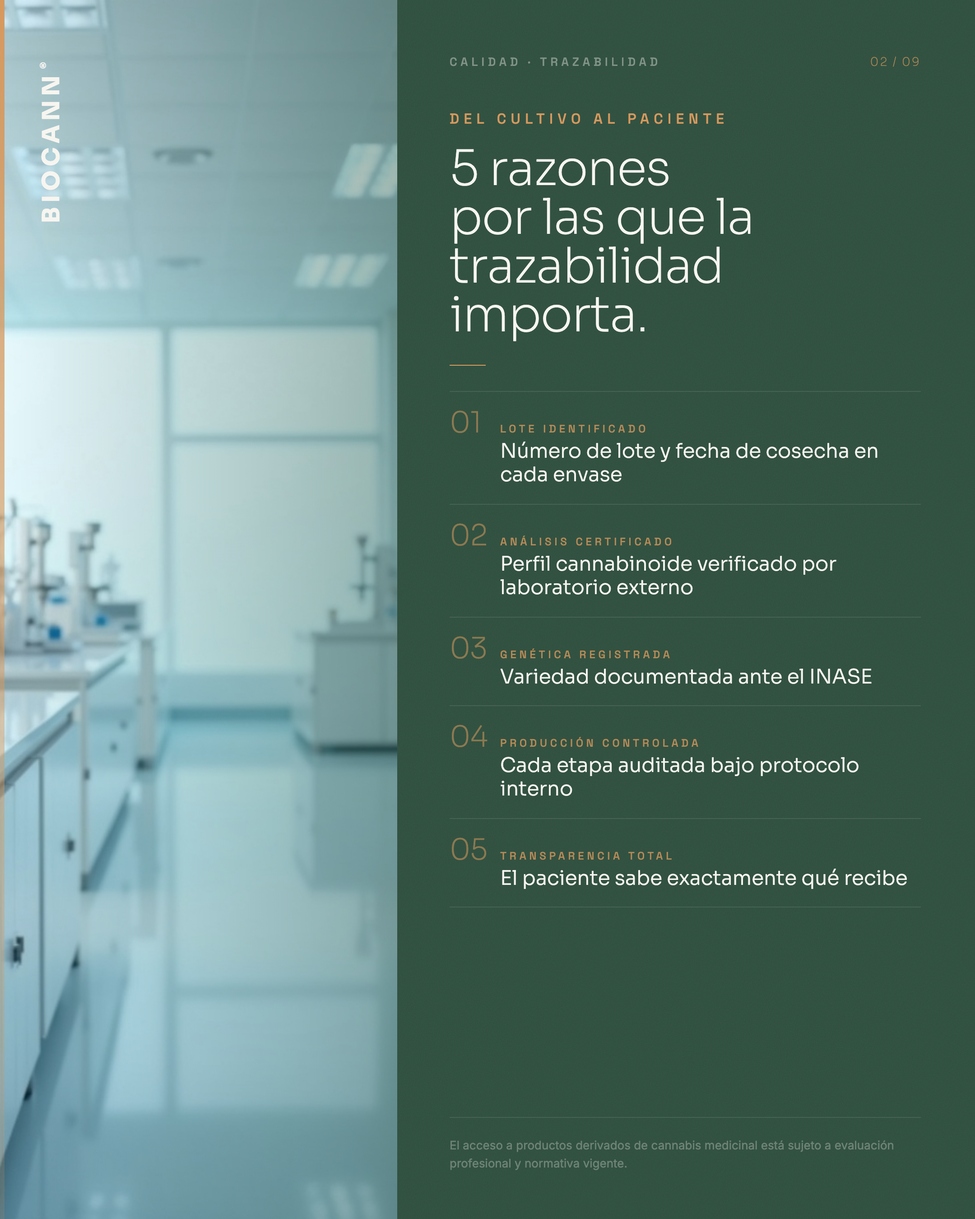
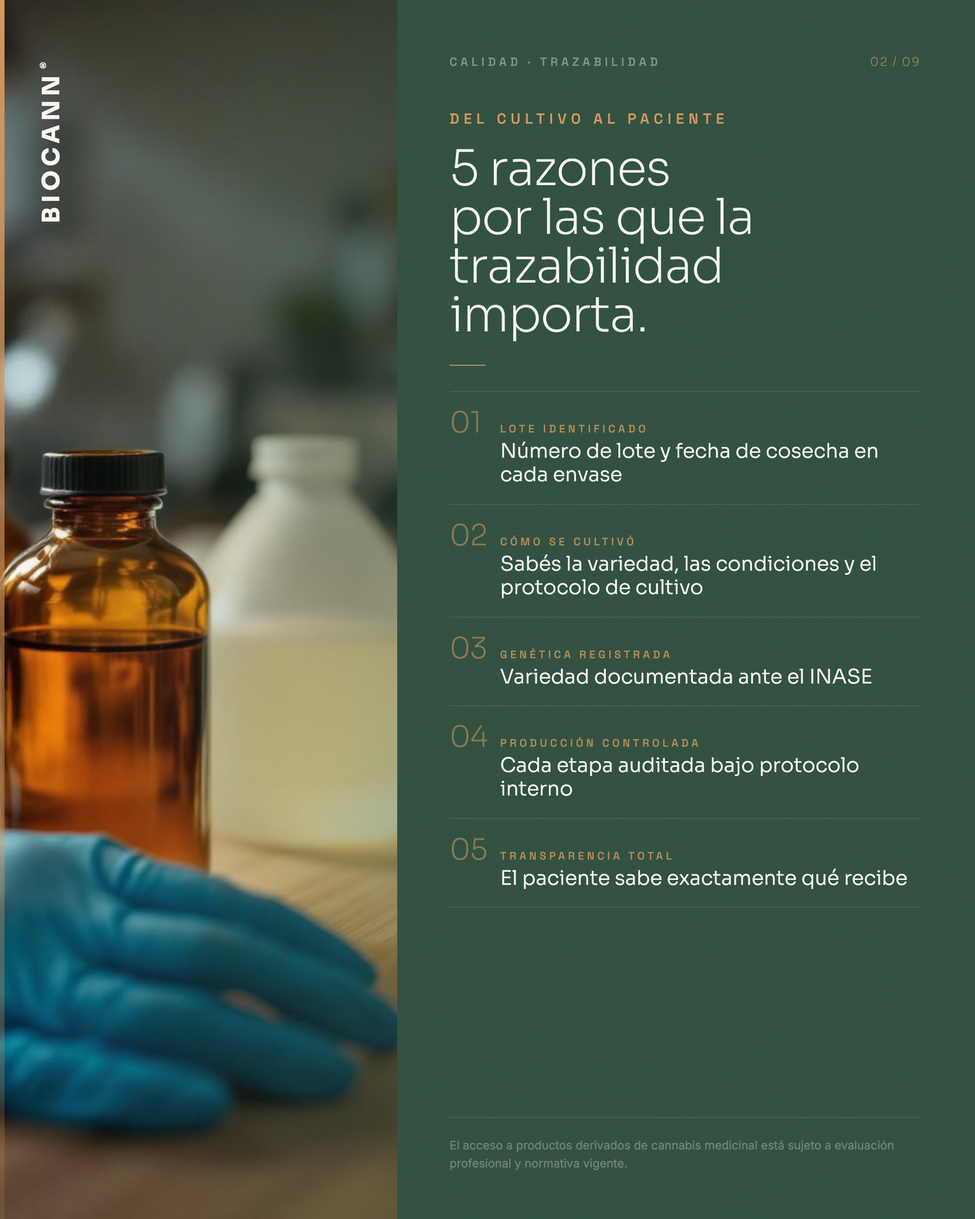
fix(cal-cards): sync 9 cards — CAL-04 persona de costado con celu, 8 cards auditadas
- CAL-04: nueva foto fal.ai perfil lateral mujer con smartphone (reemplaza laptop)
- CAL-02 a CAL-09: sincronizadas desde biocann-brain (versiones auditadas mayo 2026)
- HTML cal-04 actualizado: photo → cal-04-mobile-cobertura.jpg

diff --git a/cal-cards/cal-04-coberturas.html b/cal-cards/cal-04-coberturas.html
@@ -13,7 +13,7 @@
     position: absolute;
     top: 0; left: 0; right: 0;
     height: 740px;
-    background: url('../photos/cal/cal-04-laptop-membresia.jpg') center 30%/cover no-repeat;
+    background: url('../photos/cal/cal-04-mobile-cobertura.jpg') center 30%/cover no-repeat;
   }
   .photo::after {
     content: '';
